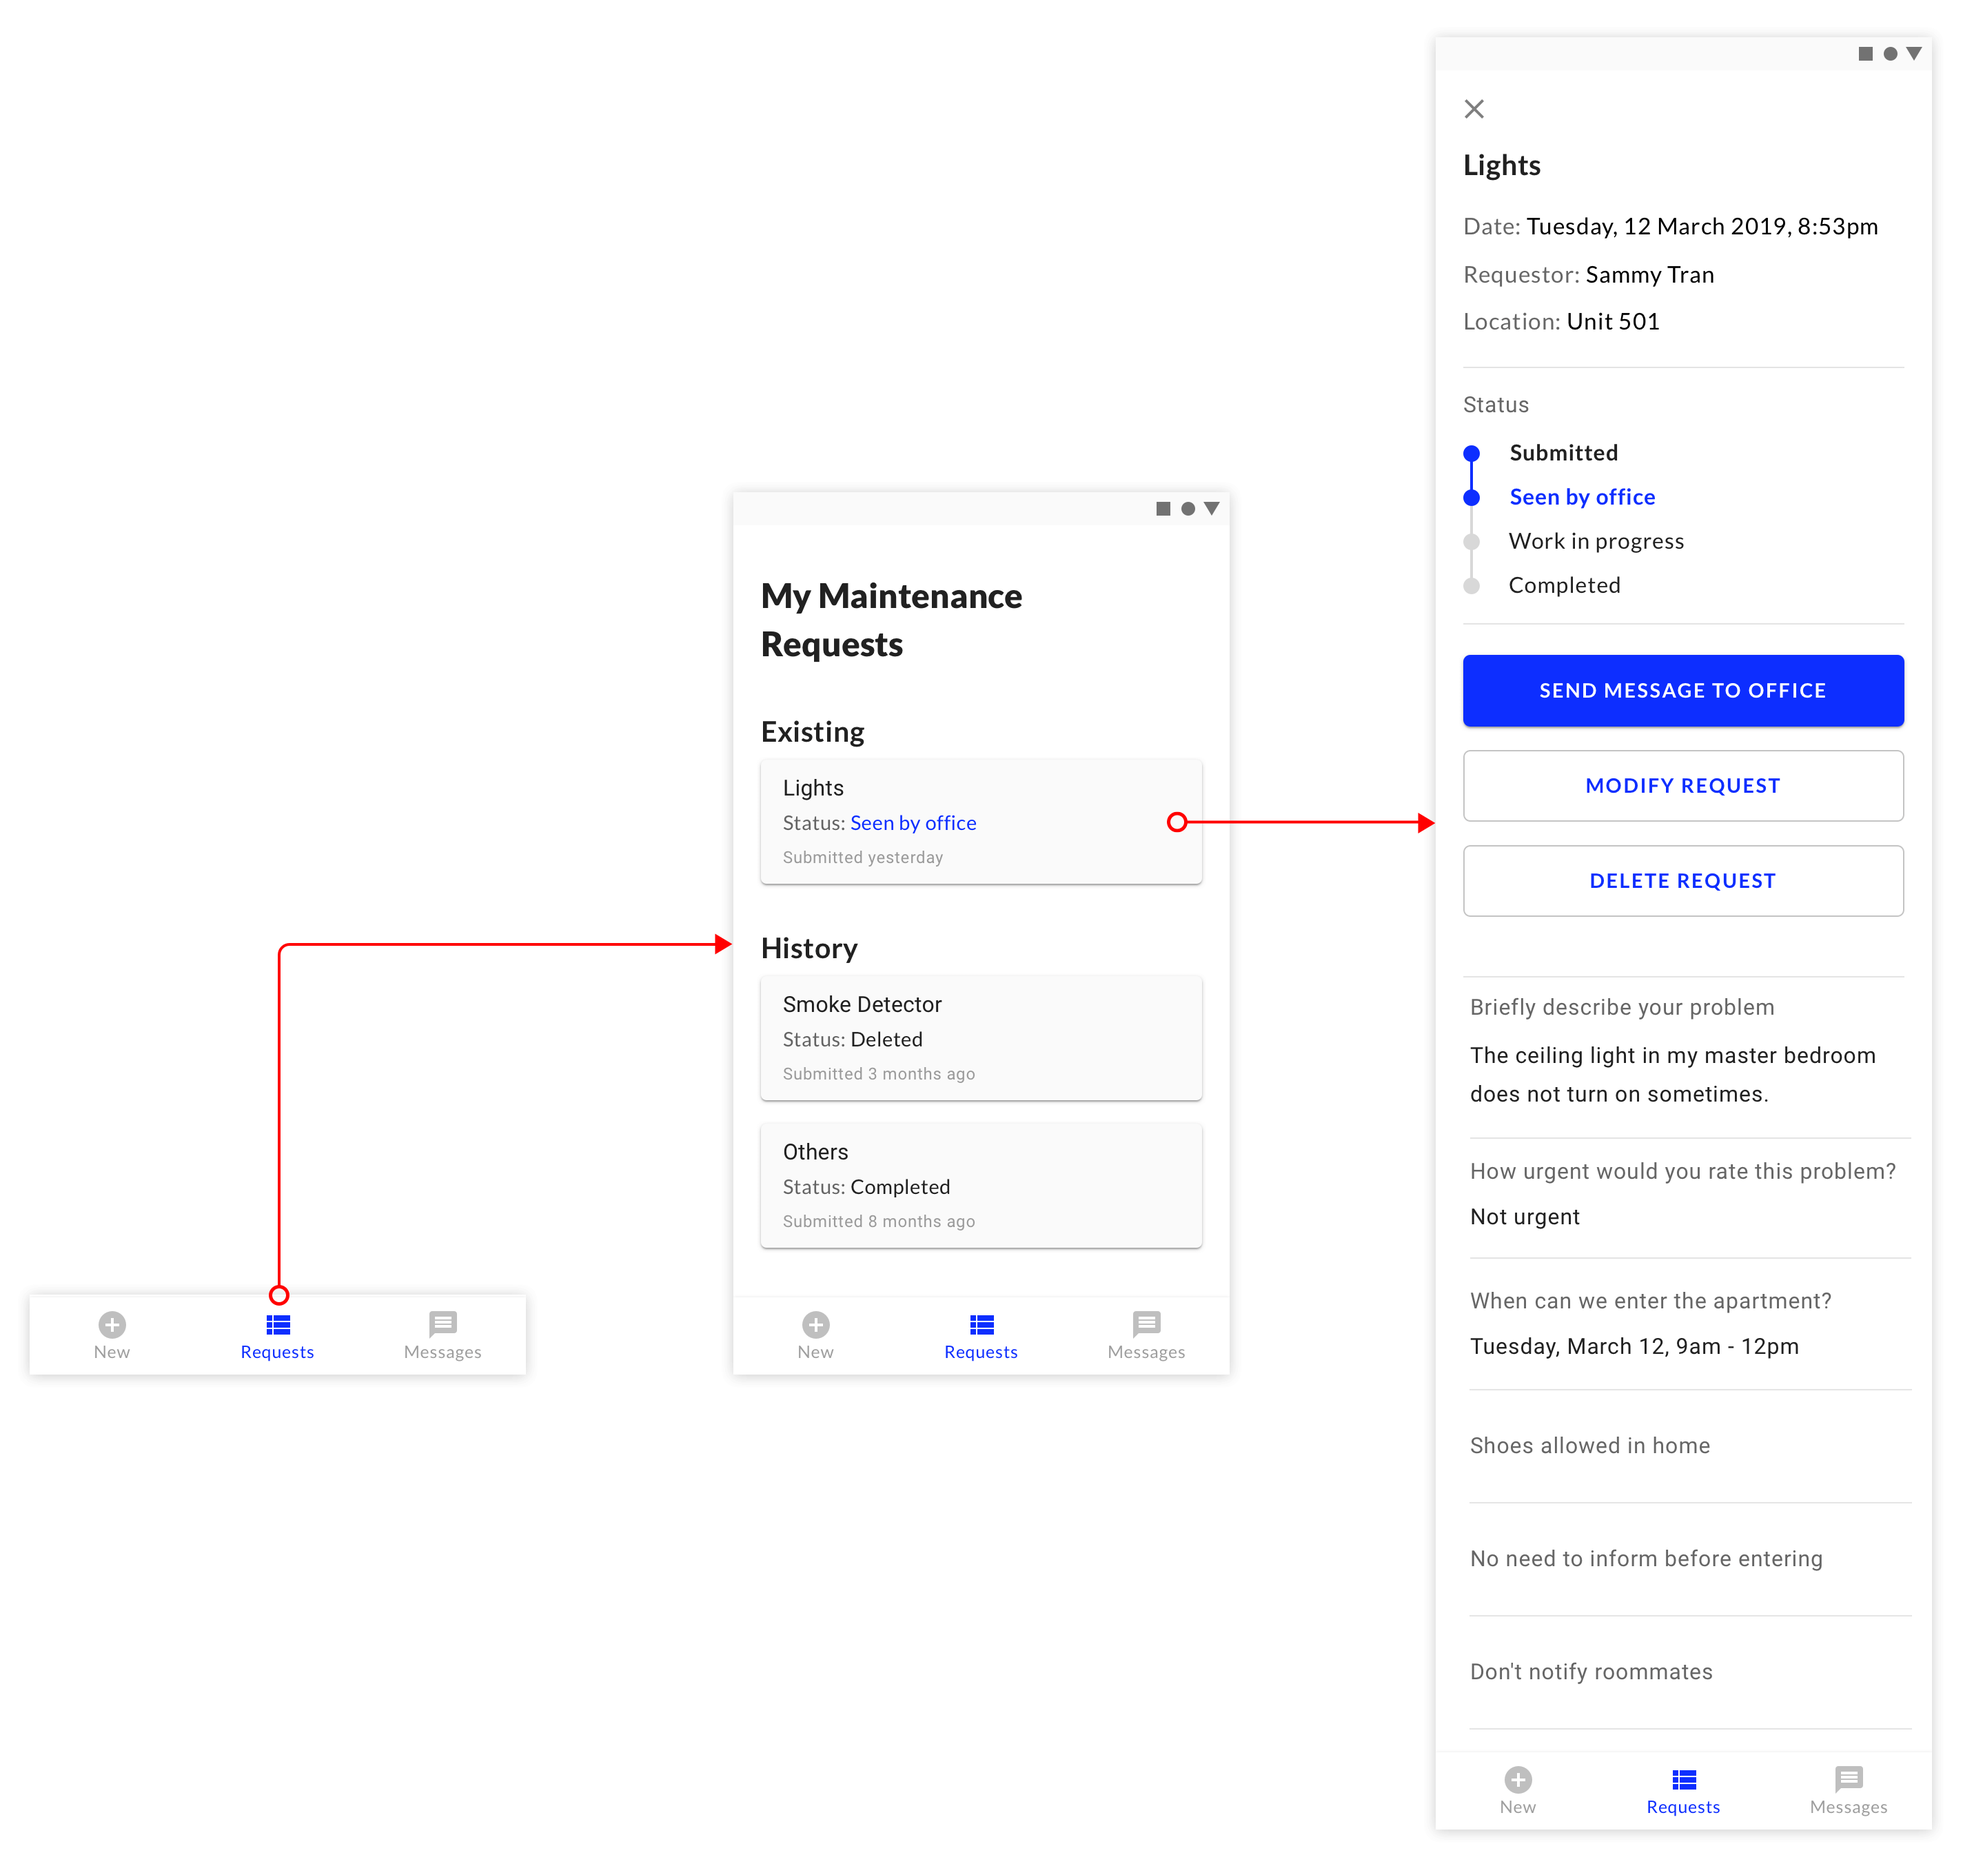
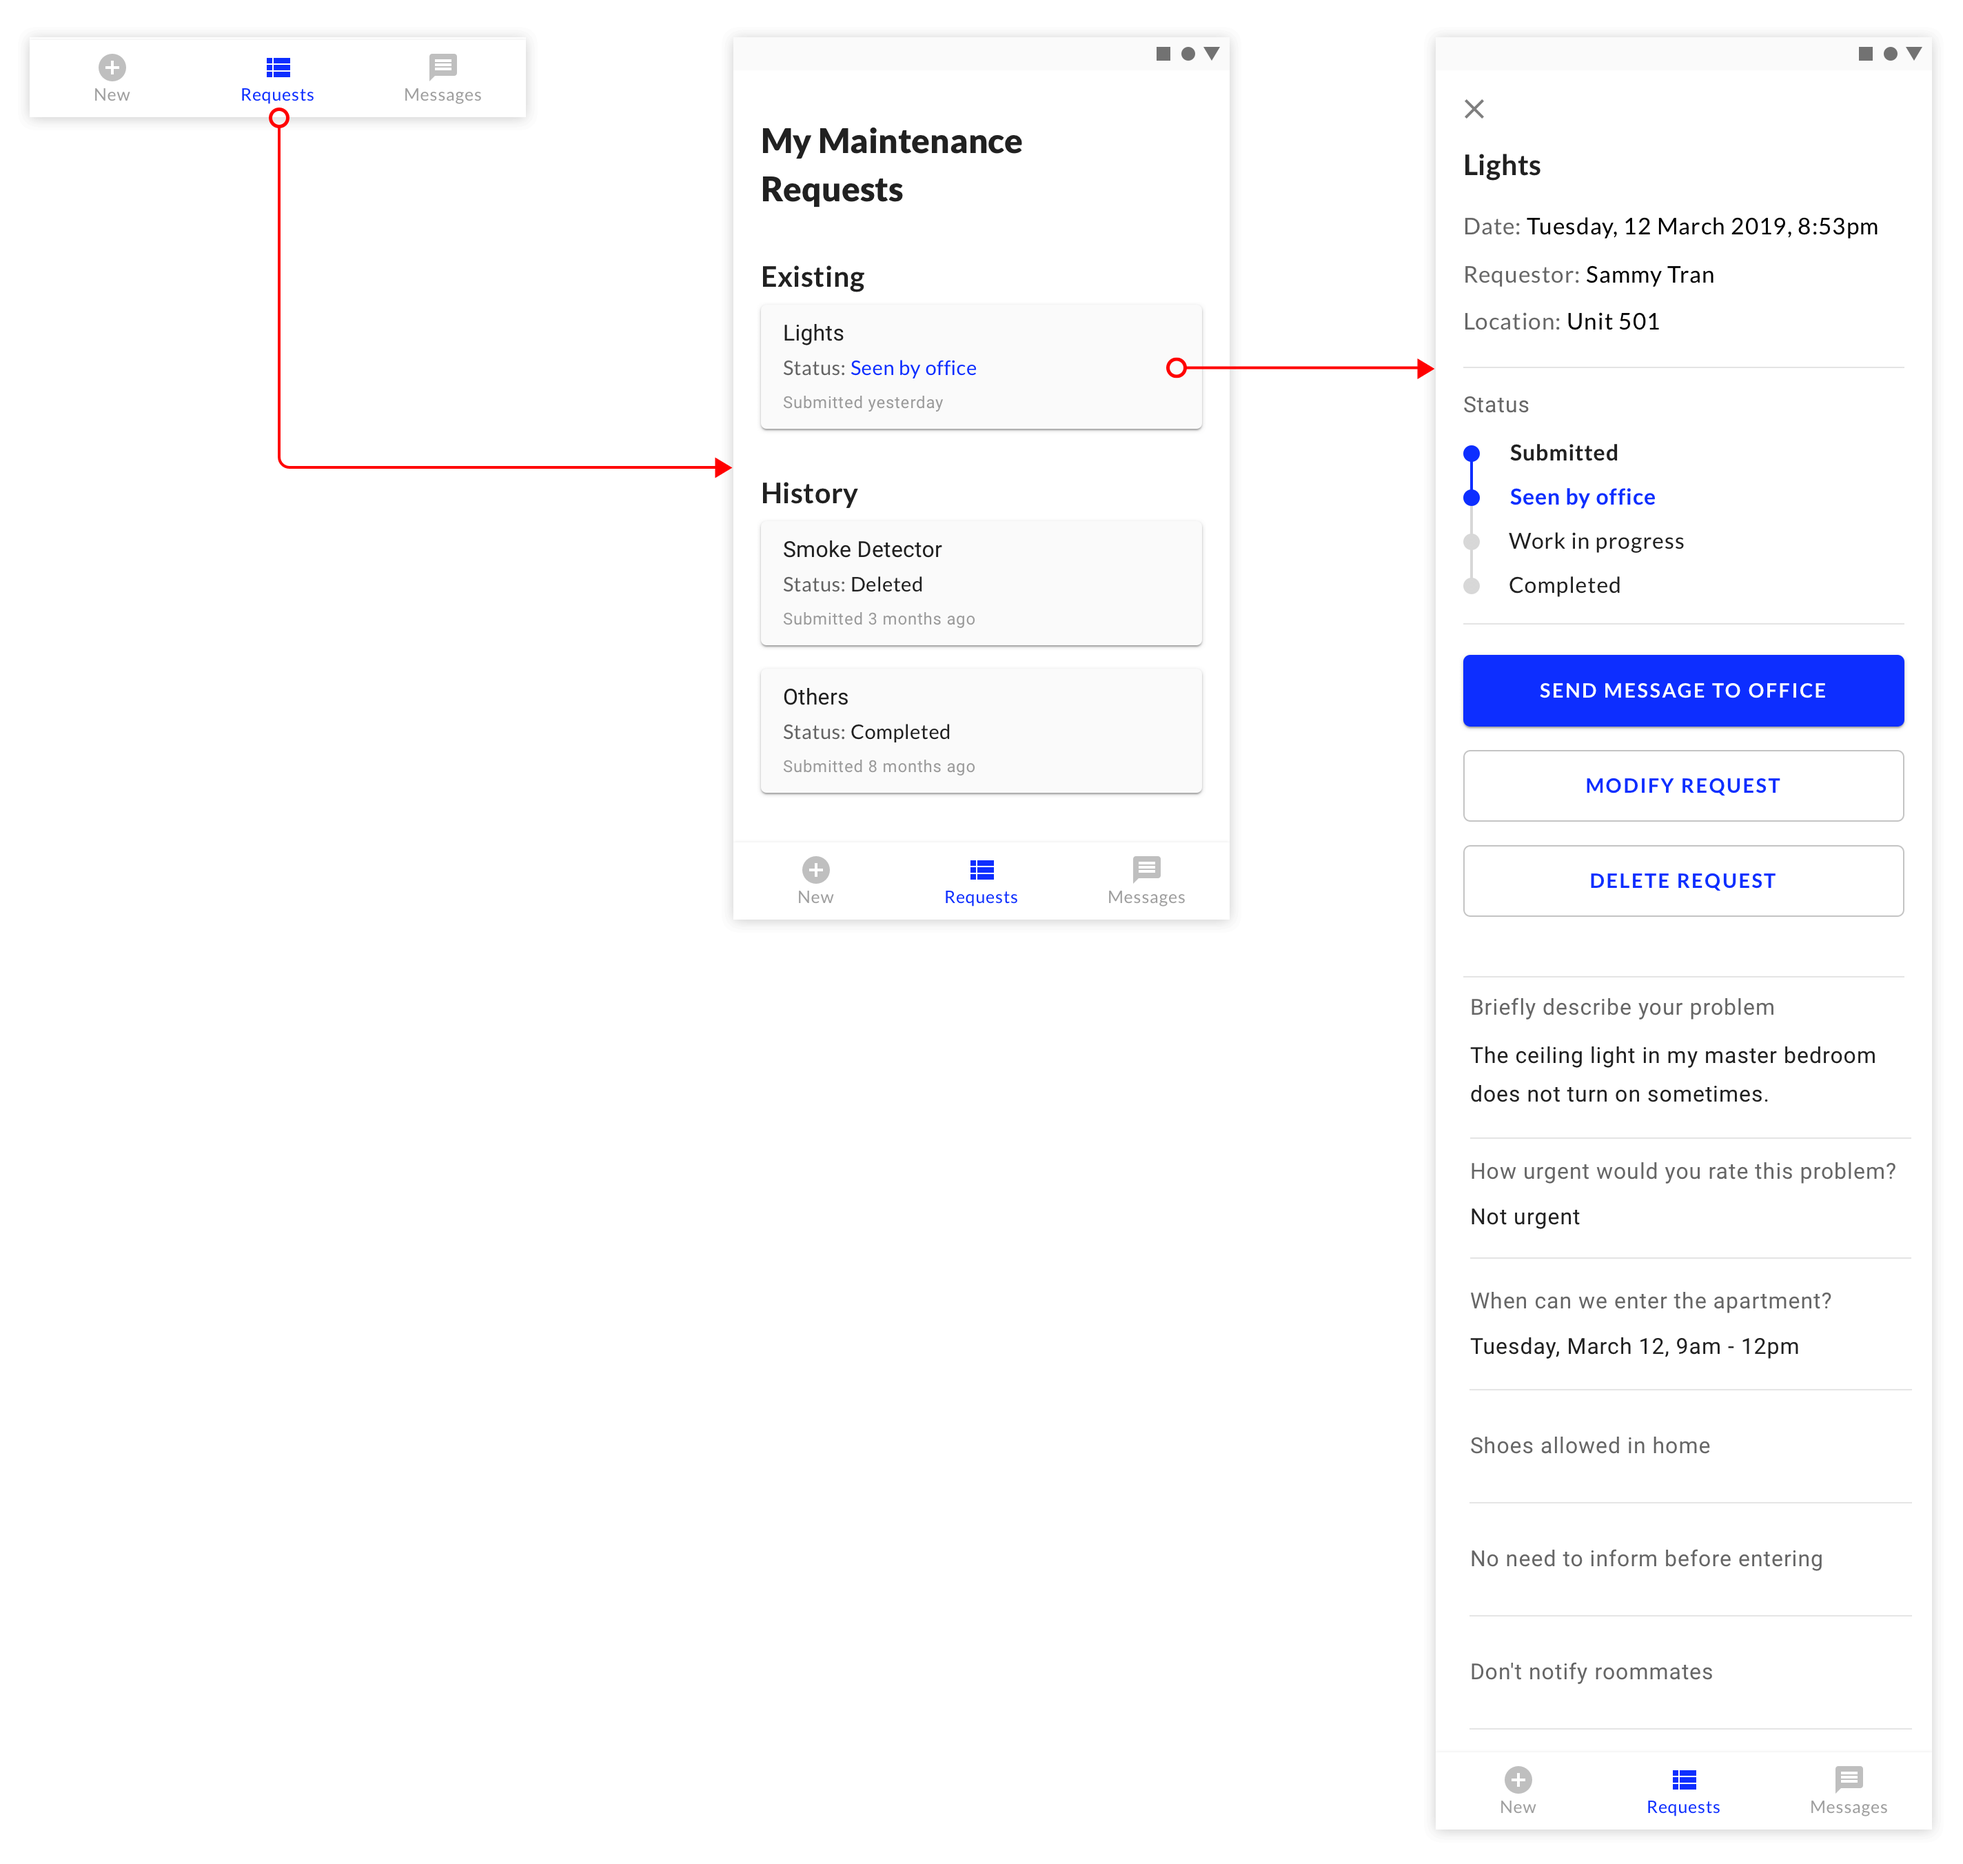
Rearranged each user flow to align to top

diff --git a/45b63c598e8c6a71660f945657169a15fcb81e6d/google-exercise.html b/45b63c598e8c6a71660f945657169a15fcb81e6d/google-exercise.html
@@ -485,9 +485,11 @@ a:hover {
 
 		<div class="content-column">
 
-			<p>I chose to use Material Design cards for each request because each request represented a distinct object. Upon tapping on each card, the user can view details for the request, and modify or delete it. They can also see the status of the request and follow-up through messages (which brings them to the <i>Messages</i> Tab).</p>
+			<p>This tab houses all requests (ongoing and historical) posted by a user and his or her housemates. Since each request is a distinct object, I chose to list each one as an individual card that can be tapped on to reveal details such as a status bar and the user data submitted. The user can also choose to modify/delete the request or to message the office.</p>
 
-			<p>To ensure that the new progress bar is feasible for the maintenance team, I needed to make sure it was easy to update. Here, the cutoff points are clear: <i>Seen by office</i> and <i>Complete</i> are automatically updated, and only "Work in progress" needs to be updated manually.</p>
+			<p>Note that even though the message would go to the maintenance team, my research revealed that <b>most users think of the leasing office first</b> when they need maintenance. Hence, I chose to abstract this detail and just went with "Send Message To Office".<p>
+
+			<p>To ensure that the new progress bar is feasible for the maintenance team's workflow, I needed to make sure it was easy to update. Here, the cutoff points are clear: <i>Seen by office</i> and <i>Complete</i> are automatically updated, and only "Work in progress" needs to be updated manually.</p>
 
 		</div>
 
@@ -525,7 +527,7 @@ a:hover {
 		</div>
 
 		<div class="content-column">
-			<p>Going forward, the first I would like to do is to conduct user testing to validate my design. Some questions I have in my head are &mdash; whether users would respond to the DIY section of the app or simply ignore it; If users would prefer a multi-step process v.s. having the entire form on one page. To truly find out if the design will be useful, this would have to be tested with both residents and the maintenance team.</p>
+			<p>Going forward, the first thing I would like to do is to conduct user testing to validate my design. Some questions I have in my head are &mdash; whether users would respond to the DIY section of the app or simply ignore it; If users would prefer a multi-step process v.s. having the entire form on one page. To truly find out if the design will be useful, this would have to be tested with both residents and the maintenance team.</p>
 
 			<p>Since I created the design with feasibility issues in mind, I would like to touch on that aspect as well. One major drawback of Fixit is that it may be too specific to the singular community of 6TenEast. One way to improve it is to make Fixit more generalizable to other residences while retaining the ability to customize questions and other areas of the app.</p>
 
